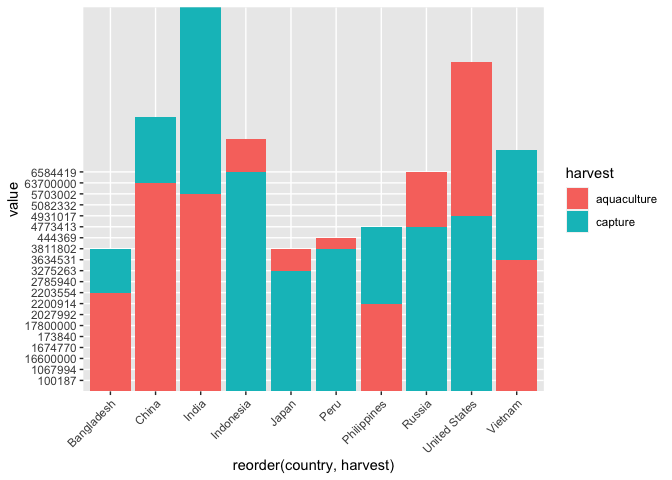
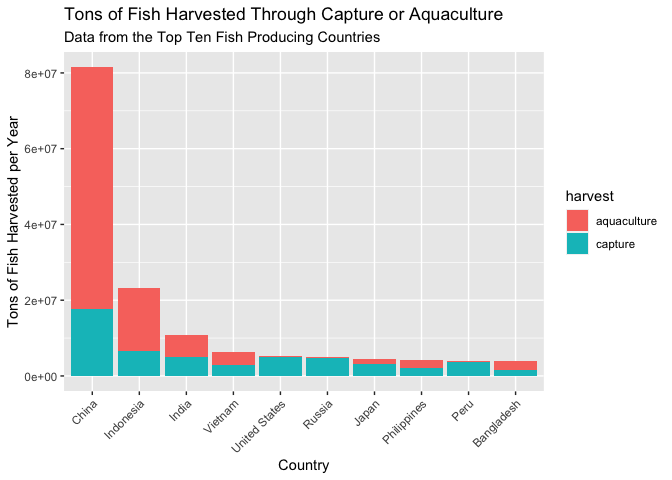
Refined graphs

diff --git a/lab-06.md b/lab-06.md
@@ -66,8 +66,9 @@ staff_long %>%
 ``` r
 staff_long %>% 
   ggplot(aes(x = year, y = value , fill = faculty_type)) +
-  geom_bar(stat = "identity") +
-  theme(axis.text.x = element_text(angle = 45, vjust = 1, hjust=1))
+  geom_col() +
+  theme(axis.text.x = element_text(angle = 45, vjust = 1, hjust=1))+
+  labs(title = "Proportion of Faculty in Each Position Over Time" , y = "Proportion" , x = "Year")
 ```
 
 ![](lab-06_files/figure-gfm/unnamed-chunk-3-1.png)<!-- -->
@@ -164,121 +165,179 @@ big_fisheries %>%
 biggest_fisheries_total <- fisheries %>% 
   filter(total > 3800000)
 
-biggest_fisheries_total
+biggest_fisheries_total %>% 
+  arrange(desc(total))
 ```
 
     ## # A tibble: 10 × 4
     ##    country        capture aquaculture    total
     ##    <chr>            <dbl>       <dbl>    <dbl>
-    ##  1 Bangladesh     1674770     2203554  3878324
-    ##  2 China         17800000    63700000 81500000
+    ##  1 China         17800000    63700000 81500000
+    ##  2 Indonesia      6584419    16600000 23184419
     ##  3 India          5082332     5703002 10785334
-    ##  4 Indonesia      6584419    16600000 23184419
-    ##  5 Japan          3275263     1067994  4343257
-    ##  6 Peru           3811802      100187  3911989
-    ##  7 Philippines    2027992     2200914  4228906
-    ##  8 Russia         4773413      173840  4947253
-    ##  9 United States  4931017      444369  5375386
-    ## 10 Vietnam        2785940     3634531  6420471
+    ##  4 Vietnam        2785940     3634531  6420471
+    ##  5 United States  4931017      444369  5375386
+    ##  6 Russia         4773413      173840  4947253
+    ##  7 Japan          3275263     1067994  4343257
+    ##  8 Philippines    2027992     2200914  4228906
+    ##  9 Peru           3811802      100187  3911989
+    ## 10 Bangladesh     1674770     2203554  3878324
+
+### Here I change to lots of different data frames because I didn’t think ahead to my final end goal
 
 ``` r
 biggest_fisheries_total_long <- biggest_fisheries_total %>%
   pivot_longer(cols = -country, names_to = "harvest") %>%
   filter(harvest %in% c("capture" , "aquaculture")) %>% 
-  mutate(value = as.character(value))
+  mutate(value = as.numeric(value))
 
-biggest_fisheries_total_long
+biggest_fisheries_total_long %>% 
+  arrange(desc(value))
 ```
 
     ## # A tibble: 20 × 3
-    ##    country       harvest     value   
-    ##    <chr>         <chr>       <chr>   
-    ##  1 Bangladesh    capture     1674770 
-    ##  2 Bangladesh    aquaculture 2203554 
-    ##  3 China         capture     17800000
-    ##  4 China         aquaculture 63700000
-    ##  5 India         capture     5082332 
-    ##  6 India         aquaculture 5703002 
-    ##  7 Indonesia     capture     6584419 
-    ##  8 Indonesia     aquaculture 16600000
-    ##  9 Japan         capture     3275263 
-    ## 10 Japan         aquaculture 1067994 
-    ## 11 Peru          capture     3811802 
-    ## 12 Peru          aquaculture 100187  
-    ## 13 Philippines   capture     2027992 
-    ## 14 Philippines   aquaculture 2200914 
-    ## 15 Russia        capture     4773413 
-    ## 16 Russia        aquaculture 173840  
-    ## 17 United States capture     4931017 
-    ## 18 United States aquaculture 444369  
-    ## 19 Vietnam       capture     2785940 
-    ## 20 Vietnam       aquaculture 3634531
+    ##    country       harvest        value
+    ##    <chr>         <chr>          <dbl>
+    ##  1 China         aquaculture 63700000
+    ##  2 China         capture     17800000
+    ##  3 Indonesia     aquaculture 16600000
+    ##  4 Indonesia     capture      6584419
+    ##  5 India         aquaculture  5703002
+    ##  6 India         capture      5082332
+    ##  7 United States capture      4931017
+    ##  8 Russia        capture      4773413
+    ##  9 Peru          capture      3811802
+    ## 10 Vietnam       aquaculture  3634531
+    ## 11 Japan         capture      3275263
+    ## 12 Vietnam       capture      2785940
+    ## 13 Bangladesh    aquaculture  2203554
+    ## 14 Philippines   aquaculture  2200914
+    ## 15 Philippines   capture      2027992
+    ## 16 Bangladesh    capture      1674770
+    ## 17 Japan         aquaculture  1067994
+    ## 18 United States aquaculture   444369
+    ## 19 Russia        aquaculture   173840
+    ## 20 Peru          aquaculture   100187
 
 ``` r
 biggest_fisheries_total_long %>% 
-  ggplot(aes(x = reorder(country , harvest) , y = value , fill = harvest)) +
+  ggplot(aes(x = reorder(country , -value) , y = value , fill = harvest)) +
   geom_bar(stat = "identity") +
-  theme(axis.text.x = element_text(angle = 45, vjust = 1, hjust=1))
+  theme(axis.text.x = element_text(angle = 45, vjust = 1, hjust=1)) +
+  labs(title = "Tons of Fish Harvested Through Capture or Aquaculture" , subtitle = "Data from the Top Ten Fish Producing Countries" , y = "Tons of Fish Harvested per Year" , x = "Country")
 ```
 
-    ## Warning in mean.default(X[[i]], ...): argument is not numeric or logical:
-    ## returning NA
-
-    ## Warning in mean.default(X[[i]], ...): argument is not numeric or logical:
-    ## returning NA
-
-    ## Warning in mean.default(X[[i]], ...): argument is not numeric or logical:
-    ## returning NA
-
-    ## Warning in mean.default(X[[i]], ...): argument is not numeric or logical:
-    ## returning NA
-
-    ## Warning in mean.default(X[[i]], ...): argument is not numeric or logical:
-    ## returning NA
-
-    ## Warning in mean.default(X[[i]], ...): argument is not numeric or logical:
-    ## returning NA
-
-    ## Warning in mean.default(X[[i]], ...): argument is not numeric or logical:
-    ## returning NA
-
-    ## Warning in mean.default(X[[i]], ...): argument is not numeric or logical:
-    ## returning NA
-
-    ## Warning in mean.default(X[[i]], ...): argument is not numeric or logical:
-    ## returning NA
-
-    ## Warning in mean.default(X[[i]], ...): argument is not numeric or logical:
-    ## returning NA
-
-    ## Warning in mean.default(X[[i]], ...): argument is not numeric or logical:
-    ## returning NA
-
-    ## Warning in mean.default(X[[i]], ...): argument is not numeric or logical:
-    ## returning NA
-
-    ## Warning in mean.default(X[[i]], ...): argument is not numeric or logical:
-    ## returning NA
-
-    ## Warning in mean.default(X[[i]], ...): argument is not numeric or logical:
-    ## returning NA
-
-    ## Warning in mean.default(X[[i]], ...): argument is not numeric or logical:
-    ## returning NA
-
-    ## Warning in mean.default(X[[i]], ...): argument is not numeric or logical:
-    ## returning NA
-
-    ## Warning in mean.default(X[[i]], ...): argument is not numeric or logical:
-    ## returning NA
-
-    ## Warning in mean.default(X[[i]], ...): argument is not numeric or logical:
-    ## returning NA
-
-    ## Warning in mean.default(X[[i]], ...): argument is not numeric or logical:
-    ## returning NA
-
-    ## Warning in mean.default(X[[i]], ...): argument is not numeric or logical:
-    ## returning NA
-
 ![](lab-06_files/figure-gfm/unnamed-chunk-10-1.png)<!-- -->
+
+### Exercise 3
+
+``` r
+library(mosaicData)
+data(Whickham)
+```
+
+1.  These data come from an observational experiment.
+2.  There are 1314 observations. Each represents a woman.
+3.  There are 3 variables. Outcome status, smoker status, age.
+4.  I would expect smoking to have a negative relationship with health
+    outcome.
+
+``` r
+Whickham %>%
+  count(smoker, outcome)
+```
+
+    ##   smoker outcome   n
+    ## 1     No   Alive 502
+    ## 2     No    Dead 230
+    ## 3    Yes   Alive 443
+    ## 4    Yes    Dead 139
+
+``` r
+Whickham %>% 
+  ggplot(aes(x = outcome)) +
+  geom_bar() +
+  facet_wrap(~smoker)+
+  labs(title = "Health Outcomes (Alive or Dead) of Smokers and Non-Smokers at 20 Year Follow Up" , y = "Number of People")
+```
+
+![](lab-06_files/figure-gfm/unnamed-chunk-12-1.png)<!-- -->
+
+``` r
+Whickham %>% 
+  ggplot(aes(x = smoker , fill = outcome)) +
+  geom_bar()+
+  labs(title = "Health Outcomes (Alive or Dead) of Smokers and Non-Smokers at 20 Year Follow Up" , y = "Number of People")
+```
+
+![](lab-06_files/figure-gfm/unnamed-chunk-12-2.png)<!-- -->
+
+5.  This graph and probability table shows that people who smoke are
+    more likely to live for another 20 years compared to people who do
+    not smoke. This does not support what I expected to see.
+
+``` r
+Whickham %>% 
+  count(smoker , outcome) %>% 
+  group_by(smoker) %>% 
+  mutate(prop = n / sum(n))
+```
+
+    ## # A tibble: 4 × 4
+    ## # Groups:   smoker [2]
+    ##   smoker outcome     n  prop
+    ##   <fct>  <fct>   <int> <dbl>
+    ## 1 No     Alive     502 0.686
+    ## 2 No     Dead      230 0.314
+    ## 3 Yes    Alive     443 0.761
+    ## 4 Yes    Dead      139 0.239
+
+``` r
+Whickham <- Whickham %>% 
+  mutate(age_cat = case_when(
+    age <= 44 ~"18-44" ,
+    age > 44 & age <= 64 ~ "44-64" ,
+    age > 64 ~ "65+"
+  ))
+```
+
+``` r
+Whickham %>% 
+  ggplot(aes(x = smoker , fill = outcome)) +
+  geom_bar()+
+  labs(title = "Health Outcomes of Smokers/Non-Smokers at 20 Year Follow Up" , subtitle = "Data From 3 Age Ranges" , y = "Number of People")+
+  facet_wrap(~age_cat)
+```
+
+![](lab-06_files/figure-gfm/unnamed-chunk-15-1.png)<!-- -->
+
+7.  This shows that in each age group, a higher proportion of people who
+    are not smokers are alive 20 years later compared to the proportion
+    of smokers who are alive 20 years later. This lines up with what I
+    originally hypothesized and shows that age differences in those who
+    smoke and do not smoke were a third variable that influenced the
+    findings in the original graph and probability table.
+
+``` r
+Whickham %>%
+  count(smoker, age_cat, outcome)%>% 
+  group_by(smoker , age_cat) %>% 
+  mutate(prop = n / sum(n)) 
+```
+
+    ## # A tibble: 12 × 5
+    ## # Groups:   smoker, age_cat [6]
+    ##    smoker age_cat outcome     n   prop
+    ##    <fct>  <chr>   <fct>   <int>  <dbl>
+    ##  1 No     18-44   Alive     327 0.965 
+    ##  2 No     18-44   Dead       12 0.0354
+    ##  3 No     44-64   Alive     147 0.735 
+    ##  4 No     44-64   Dead       53 0.265 
+    ##  5 No     65+     Alive      28 0.145 
+    ##  6 No     65+     Dead      165 0.855 
+    ##  7 Yes    18-44   Alive     270 0.947 
+    ##  8 Yes    18-44   Dead       15 0.0526
+    ##  9 Yes    44-64   Alive     167 0.676 
+    ## 10 Yes    44-64   Dead       80 0.324 
+    ## 11 Yes    65+     Alive       6 0.12  
+    ## 12 Yes    65+     Dead       44 0.88
